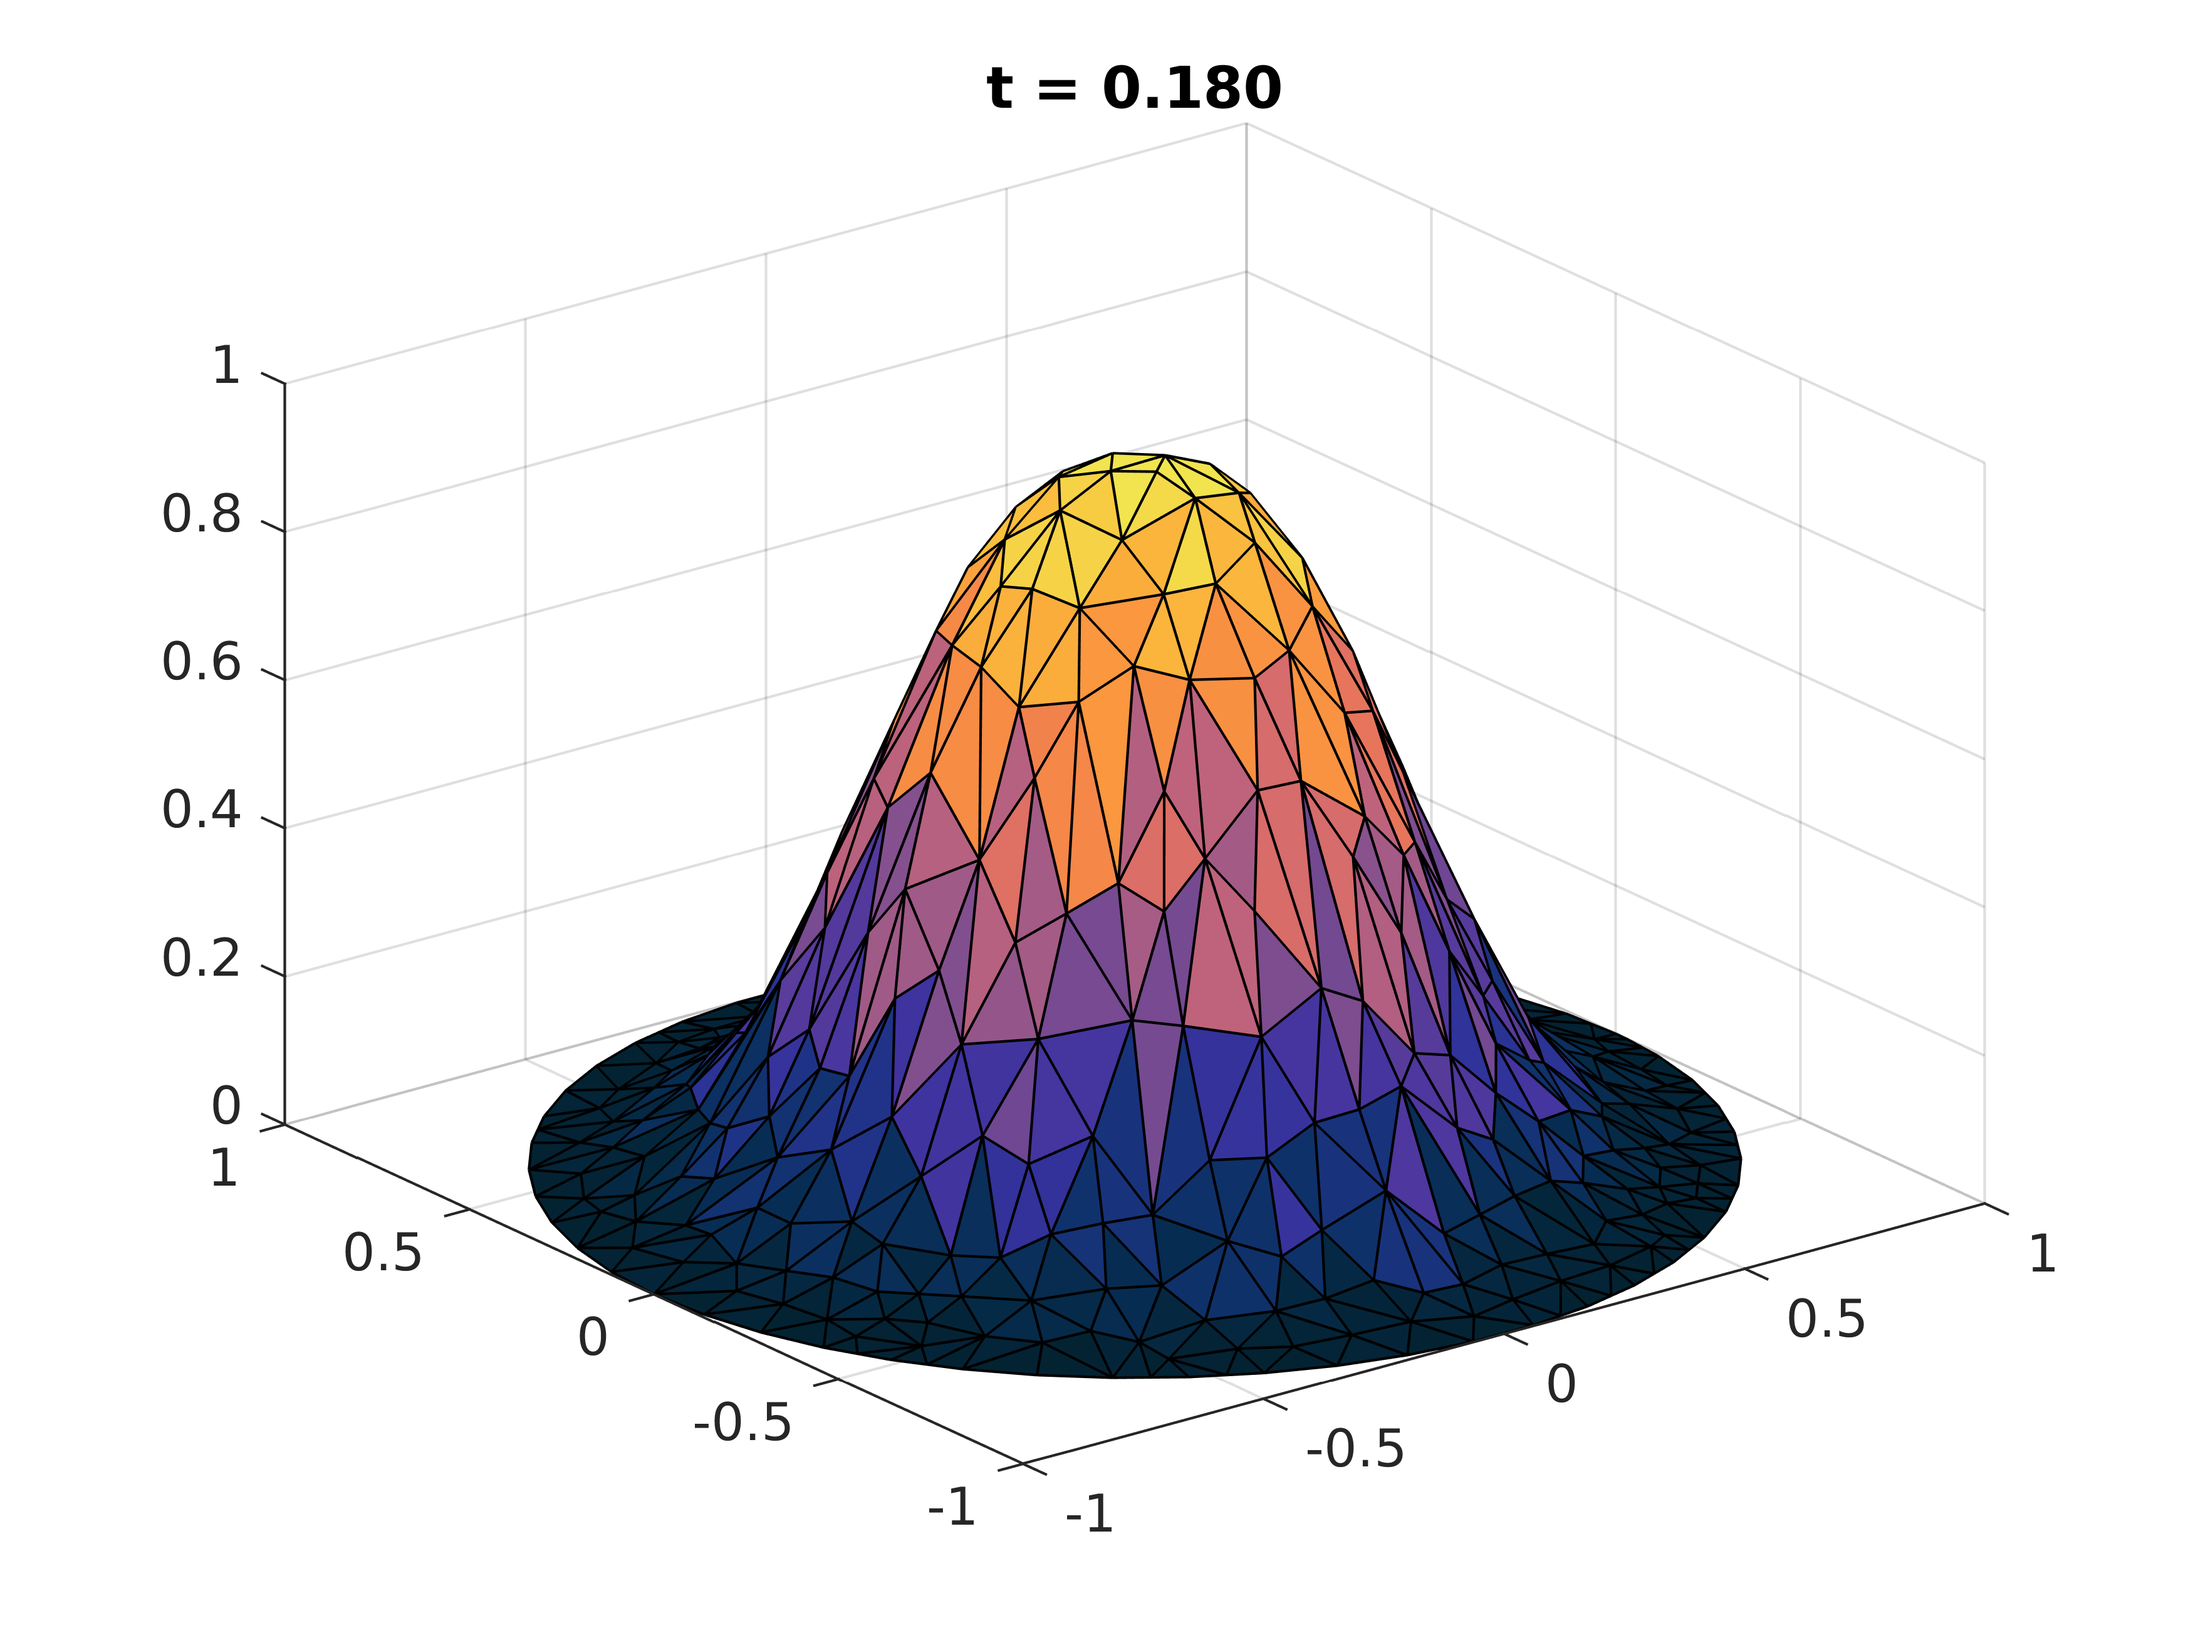
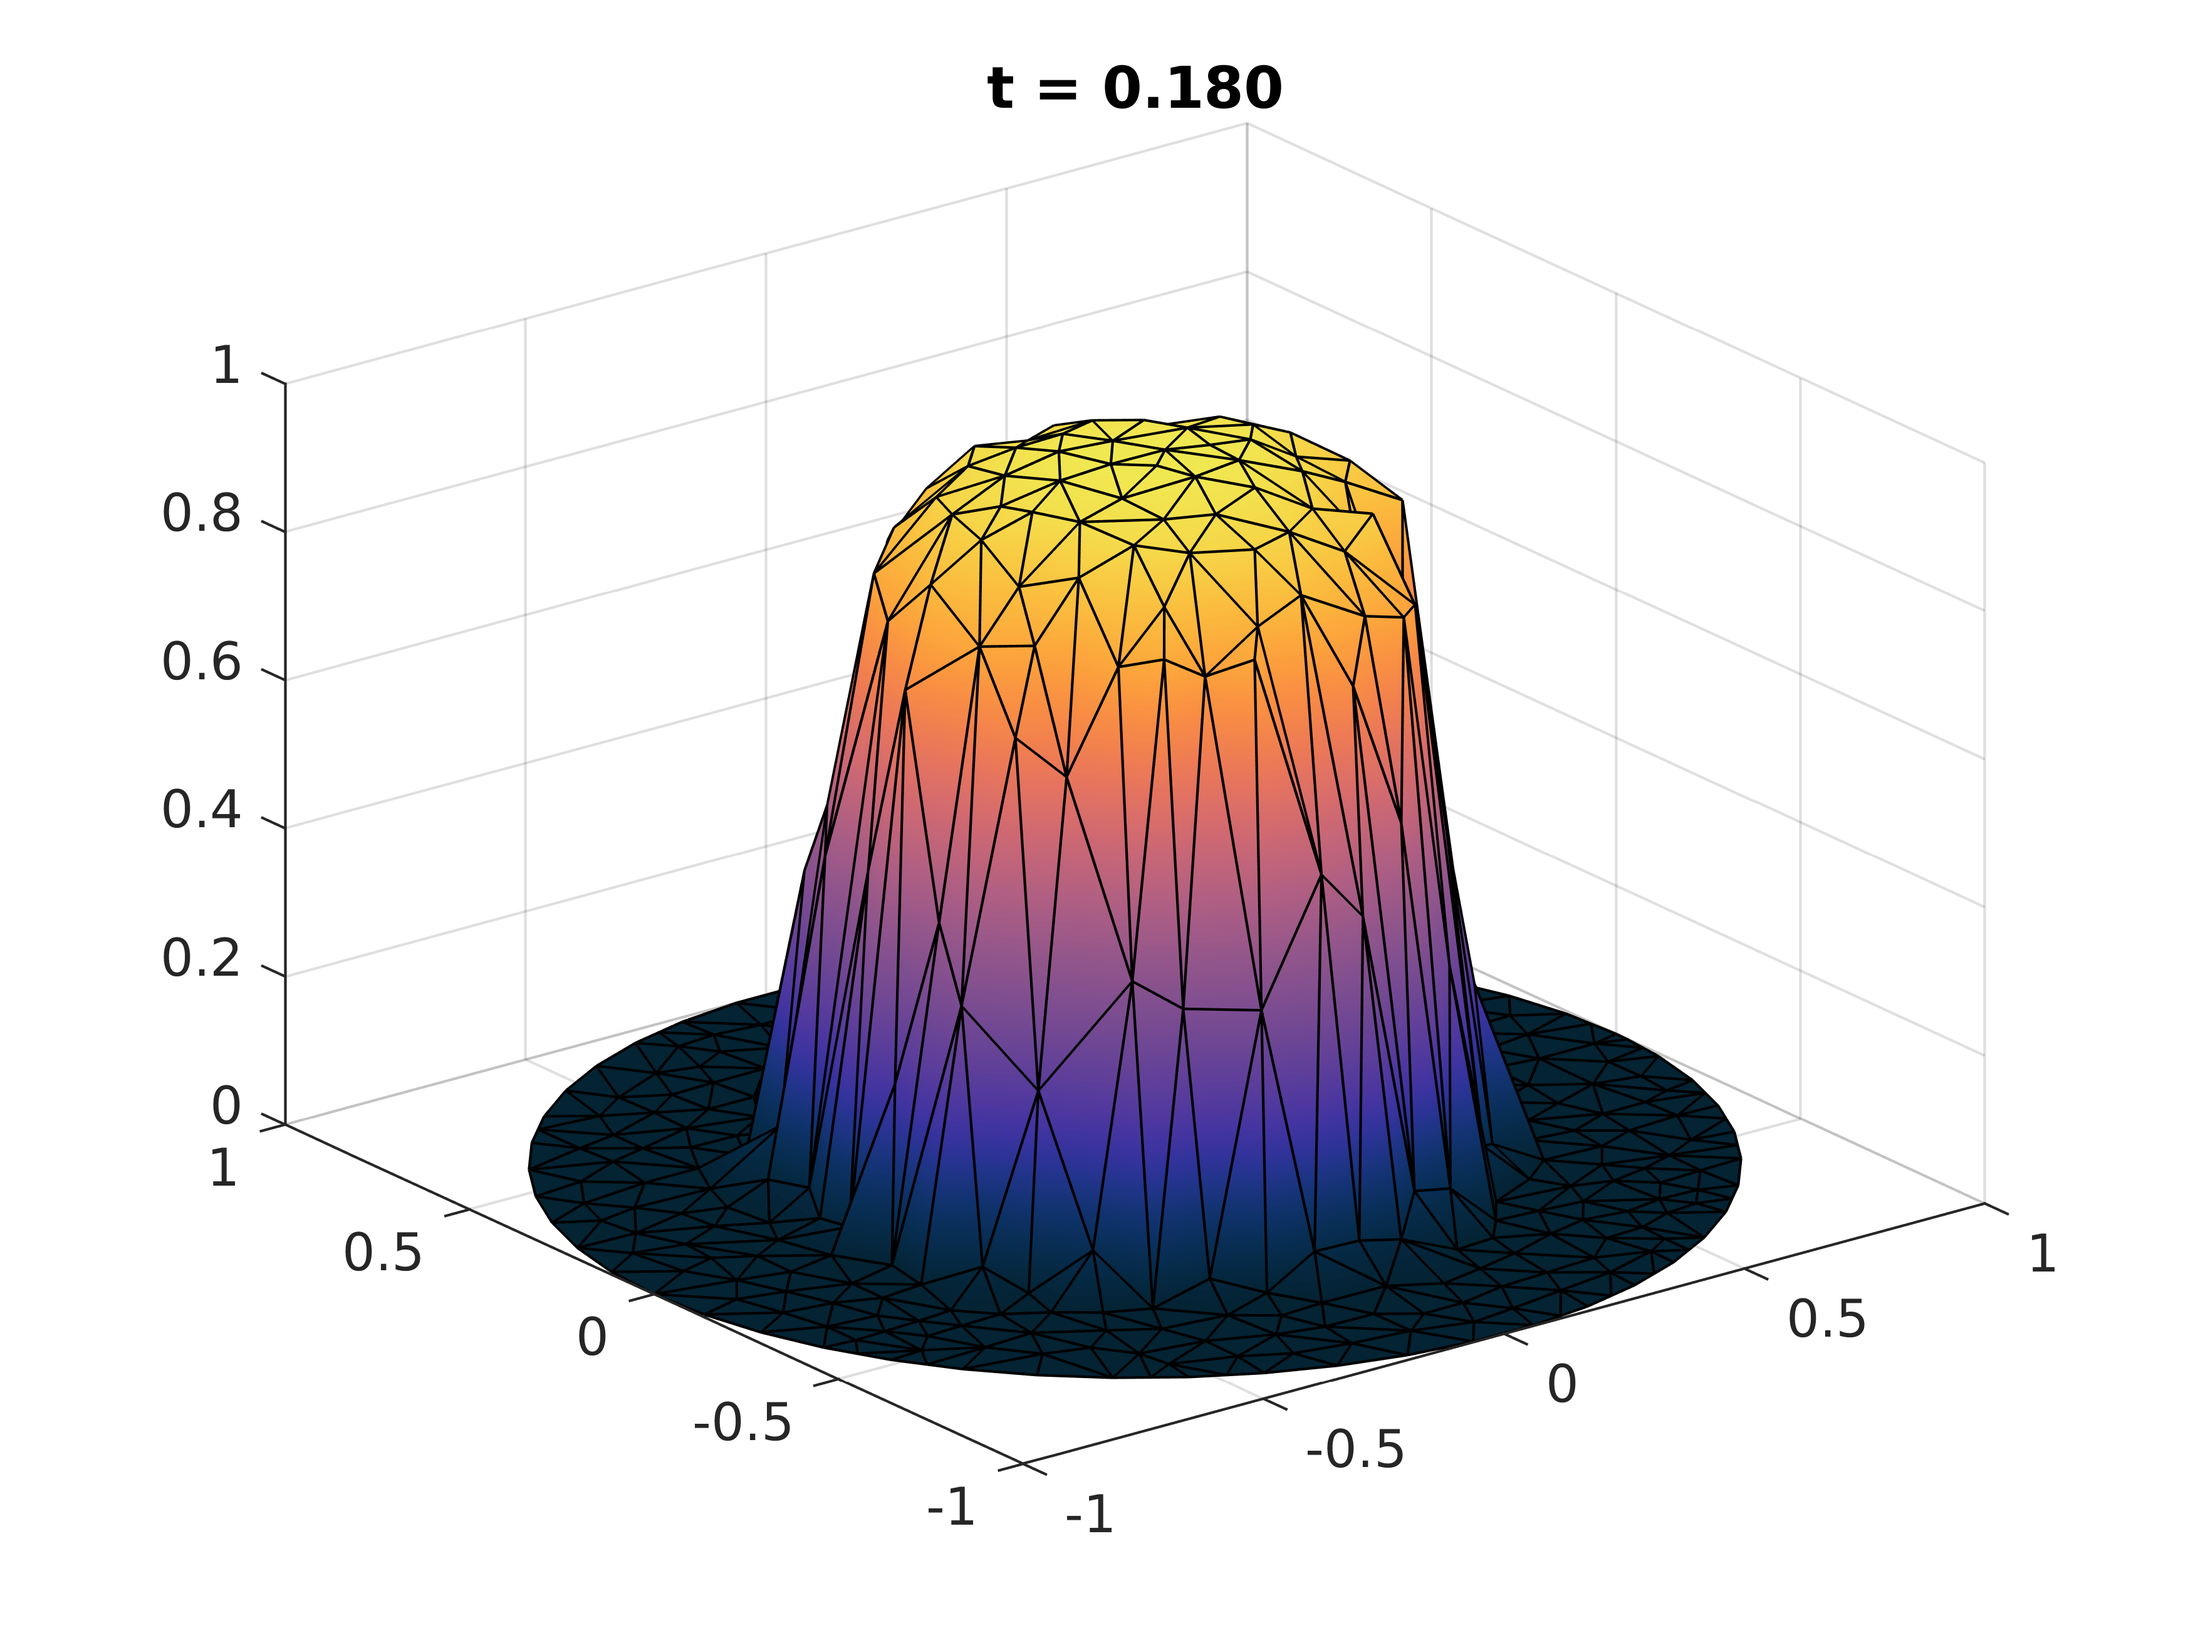
Add ignore file

Changed region(s): [[0.2491, 0.2499, 0.8097, 0.8434]]

diff --git a/heat/rhs_heat_unstructured.m b/heat/rhs_heat_unstructured.m
@@ -100,35 +100,41 @@ for ii=1:dmesh.tri.n_elements
         
         vx1=vx(ii);
         vy1=vy(ii);
+        v1 = v(ii);
         adj_i=dmesh.tri.connect_el_el(ii,q);
         if adj_i==-1    % Apply boundary conditions
             if strcmp(params.bc,'dirichlet')
                 vx2=+vx1;
                 vy2=+vy1;
+                v2 = v1;
             elseif strcmp(params.bc,'neumann')
                 vx2=-vx1;
                 vy2=-vy1;
+                v2 = v1;
             elseif strcmp(params.bc,'flux')
                 vx2=vx1;
                 vy2=vy1;
+                v2 = v1;
             end
                 
             bndry_el=true;
         else
+            v2 = v(adj_i);
             vx2=vx(adj_i);
             vy2=vy(adj_i);
         end
         
-        f_x1=params.gamma*(abs(vx1))*sign(vx1);
-        f_y1=params.gamma*(abs(vy1))*sign(vy1);
         
-        f_x2=params.gamma*(abs(vx2))*sign(vx2);
-        f_y2=params.gamma*(abs(vy2))*sign(vy2);
+        f_x1=-params.gamma*(abs(v1))^params.alpha*(abs(vx1))^params.beta*sign(vx1);
+        f_y1=-params.gamma*(abs(v1))^params.alpha*(abs(vy1))^params.beta*sign(vy1);
+        
+        f_x2=-params.gamma*(abs(v2))^params.alpha*(abs(vx2))^params.beta*sign(vx2);
+        f_y2=-params.gamma*(abs(v2))^params.alpha*(abs(vy2))^params.beta*sign(vy2);
         
         fx=0.5*(f_x1 + f_x2);
         fy=0.5*(f_y1 + f_y2);
         
-        f = f + (fx*nvec(1) + fy*nvec(2))*r;
+        f = f - (fx*nvec(1) + fy*nvec(2))*r;
         
         if strcmp(params.bc,'dirichlet') && bndry_el
             f = 0;
